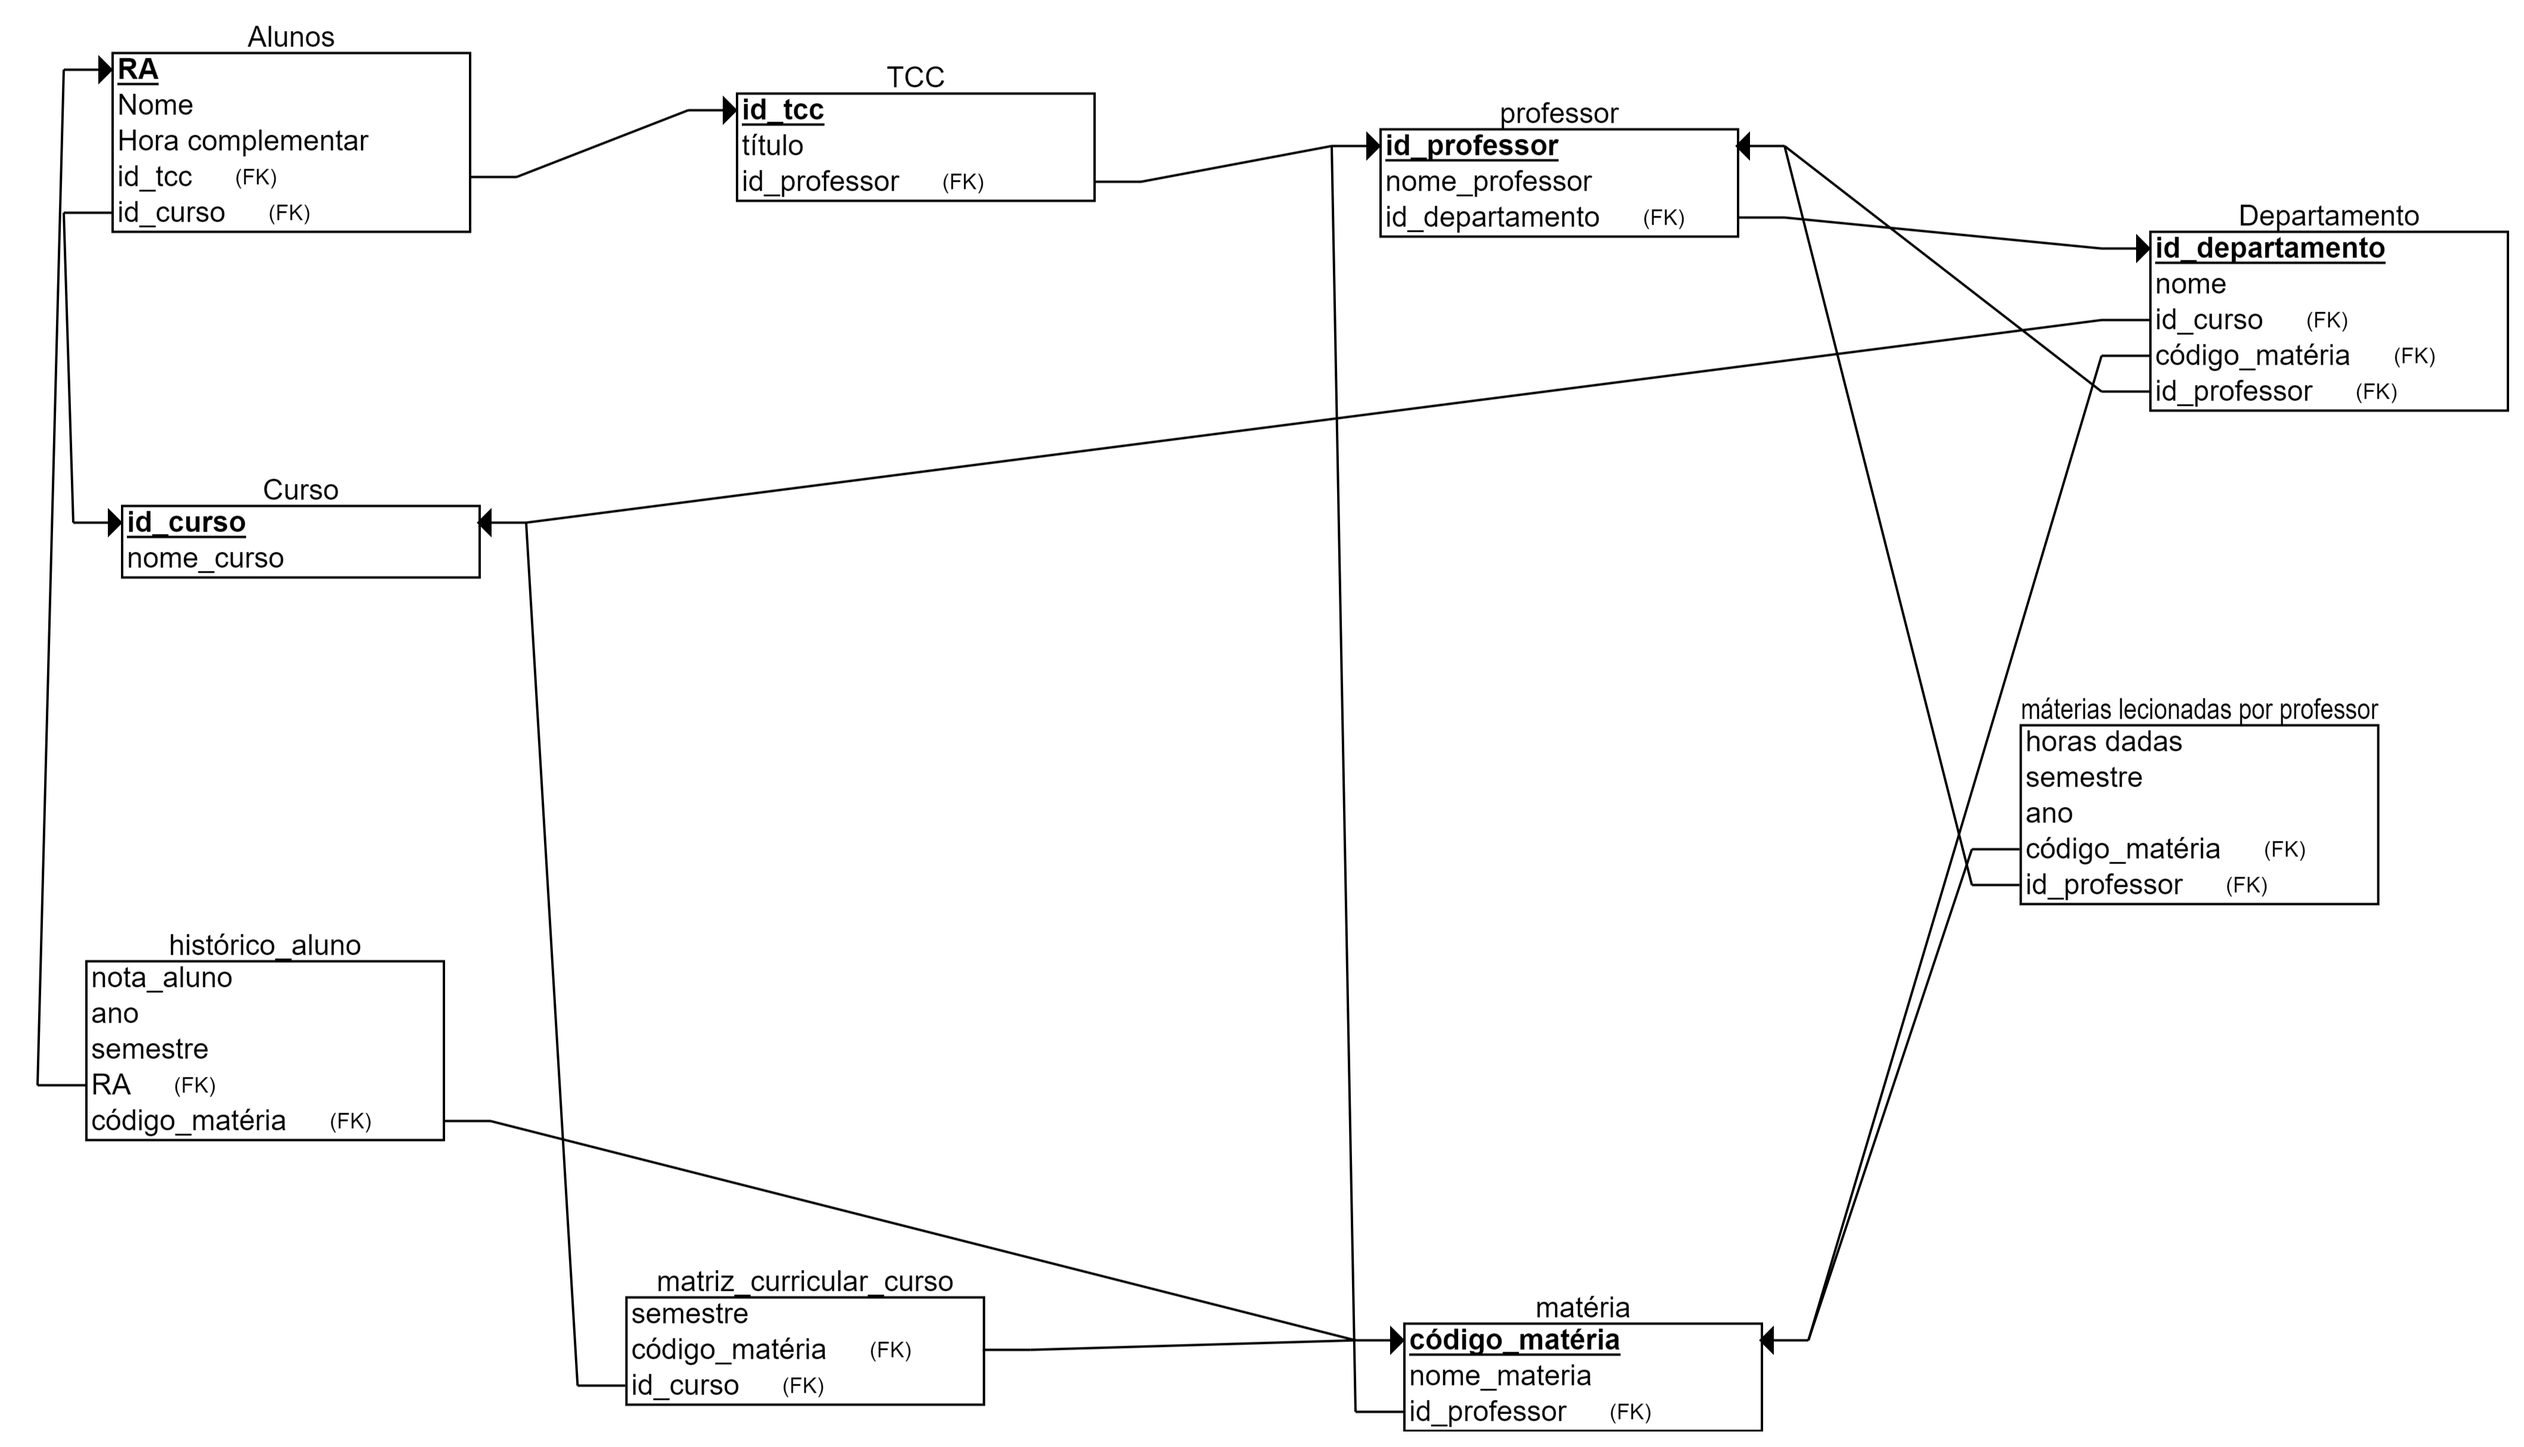
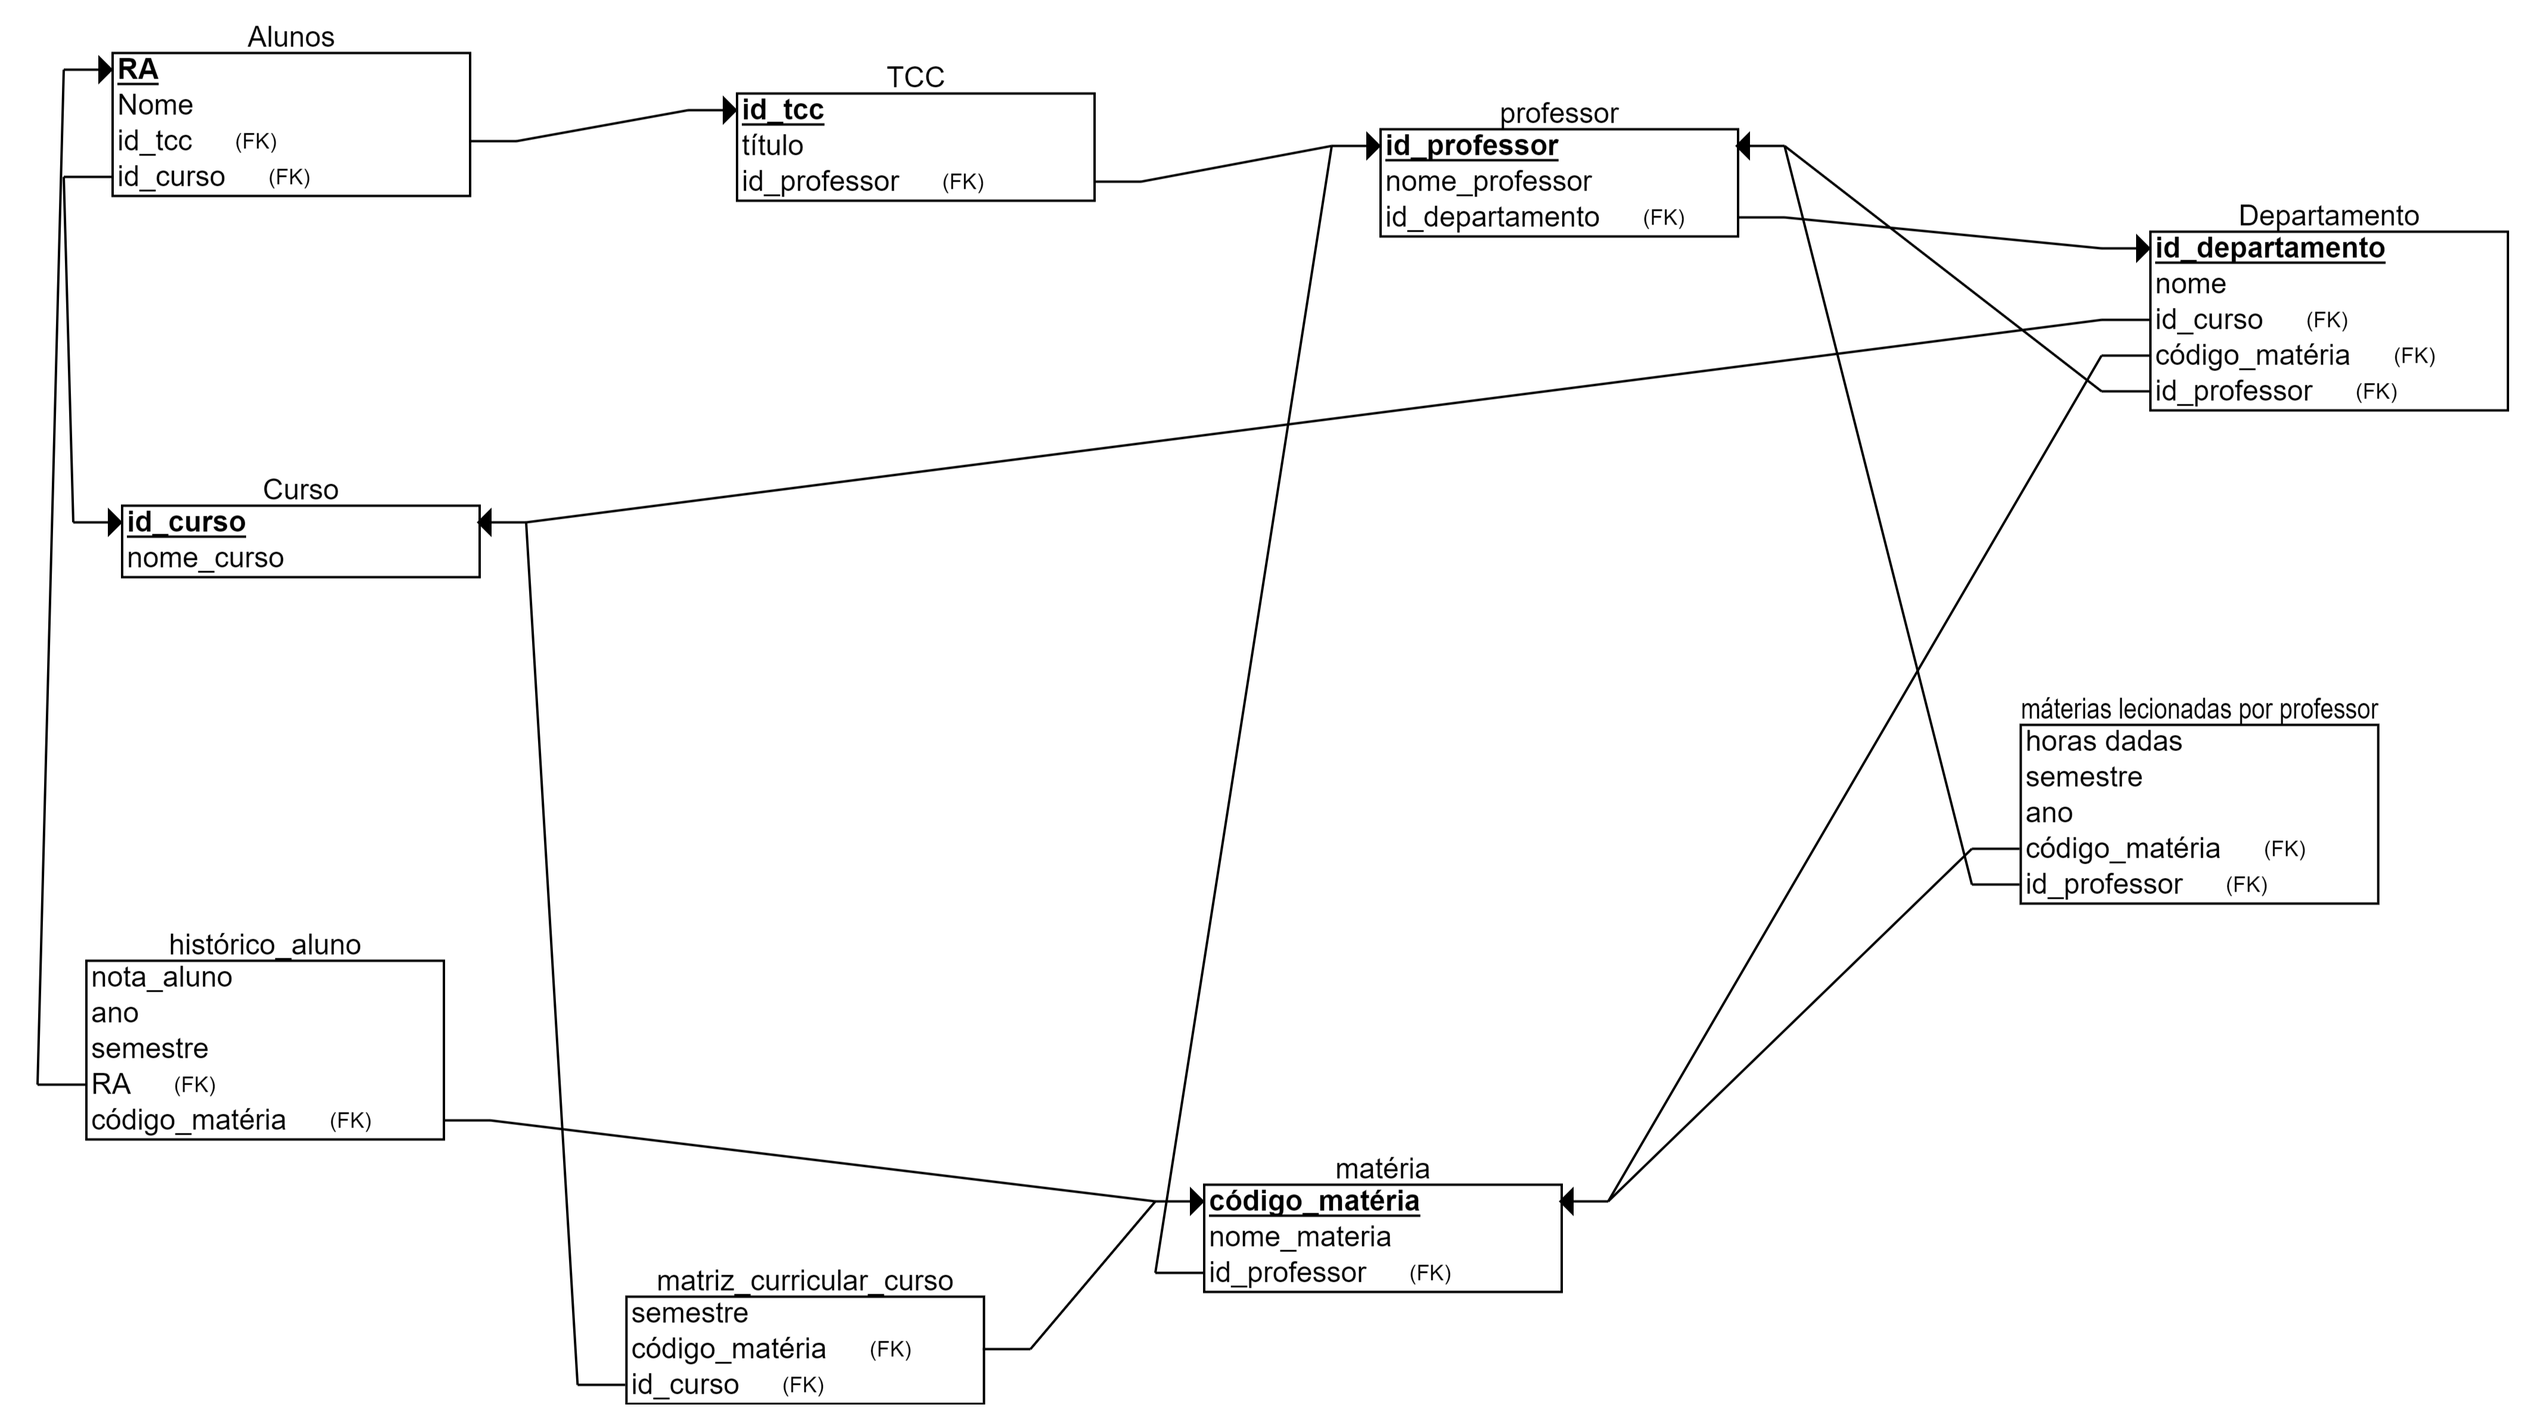
ajustes

diff --git a/README.md b/README.md
@@ -9,23 +9,23 @@ Projeto realizado em dupla com @laaurap na matéria de banco de dados
 
 ## DDL usado para a criação das tabelas necessárias:
 
-  create table curso
-	(id_curso		numeric(11,0), 
+```sql    create table curso
+	(id_curso	serial not null, 
 	nome_curso	text, 
 	primary key (id_curso)
 	);
 
  create table professor
   (nome_professor text,
-  id_professor numeric(11,0),
+  id_professor serial not null,
   primary key(id_professor)
   --foreign key (id_departamento) references departamento (id_departamento)
   );
 
   create table tcc
-	(id_tcc	numeric(11,0), 
+	(id_tcc serial not null, 
 	titulo text,
-  id_professor numeric(11,0),
+  id_professor serial not null,
 	primary key (id_tcc),
   foreign key (id_professor) references professor (id_professor)
 	);
@@ -33,9 +33,8 @@ Projeto realizado em dupla com @laaurap na matéria de banco de dados
 create table alunos
 	(ra		text,
 	 nome		text,
-   hora_complementar float,
-   id_curso		numeric(11,0), --coluna tem q existir p chave estrangeira aponta
-   id_tcc	numeric(11,0),
+   id_curso	serial not null, --coluna tem q existir p chave estrangeira aponta
+   id_tcc	serial not null,
 	 primary key (ra),
    foreign key (id_curso) references curso (id_curso),
    foreign key (id_tcc) references tcc (id_tcc)
@@ -45,17 +44,17 @@ create table alunos
 create table materias
   (nome_materia text,
    codigo_materia text,
-   id_professor numeric(11,0),
+   id_professor serial not null,
    primary key (codigo_materia),
   foreign key (id_professor) references professor (id_professor)
   );
 
 create table departamento 
   (nome text,
-   id_departamento numeric(11,0),
-   id_curso	numeric(11,0), 
+   id_departamento serial not null,
+   id_curso	serial not null, 
    codigo_materia text,
-   id_professor numeric(11,0),
+   id_professor serial not null,
    primary key(id_departamento),
    foreign key (id_curso) references curso (id_curso),
    foreign key (codigo_materia) references materias (codigo_materia),
@@ -67,7 +66,7 @@ create table materias_lecionadas_por_professor
    semestre int,
    ano int,
    codigo_materia text,
-   id_professor numeric(11,0),
+   id_professor serial not null,
    primary key (codigo_materia),
   foreign key (id_professor) references professor (id_professor)
   );
@@ -75,7 +74,7 @@ create table materias_lecionadas_por_professor
 create table matriz_curricular_curso
   (semestre int,
    codigo_materia text,
-   id_curso	numeric(11,0),
+   id_curso	serial not null,
    foreign key (codigo_materia) references materias (codigo_materia),
    foreign key (id_curso) references curso (id_curso)
   );
@@ -88,3 +87,5 @@ create table historico_aluno
    foreign key (ra) references alunos (ra),
    foreign key (codigo_materia) references materias (codigo_materia)
   );
+
+```
